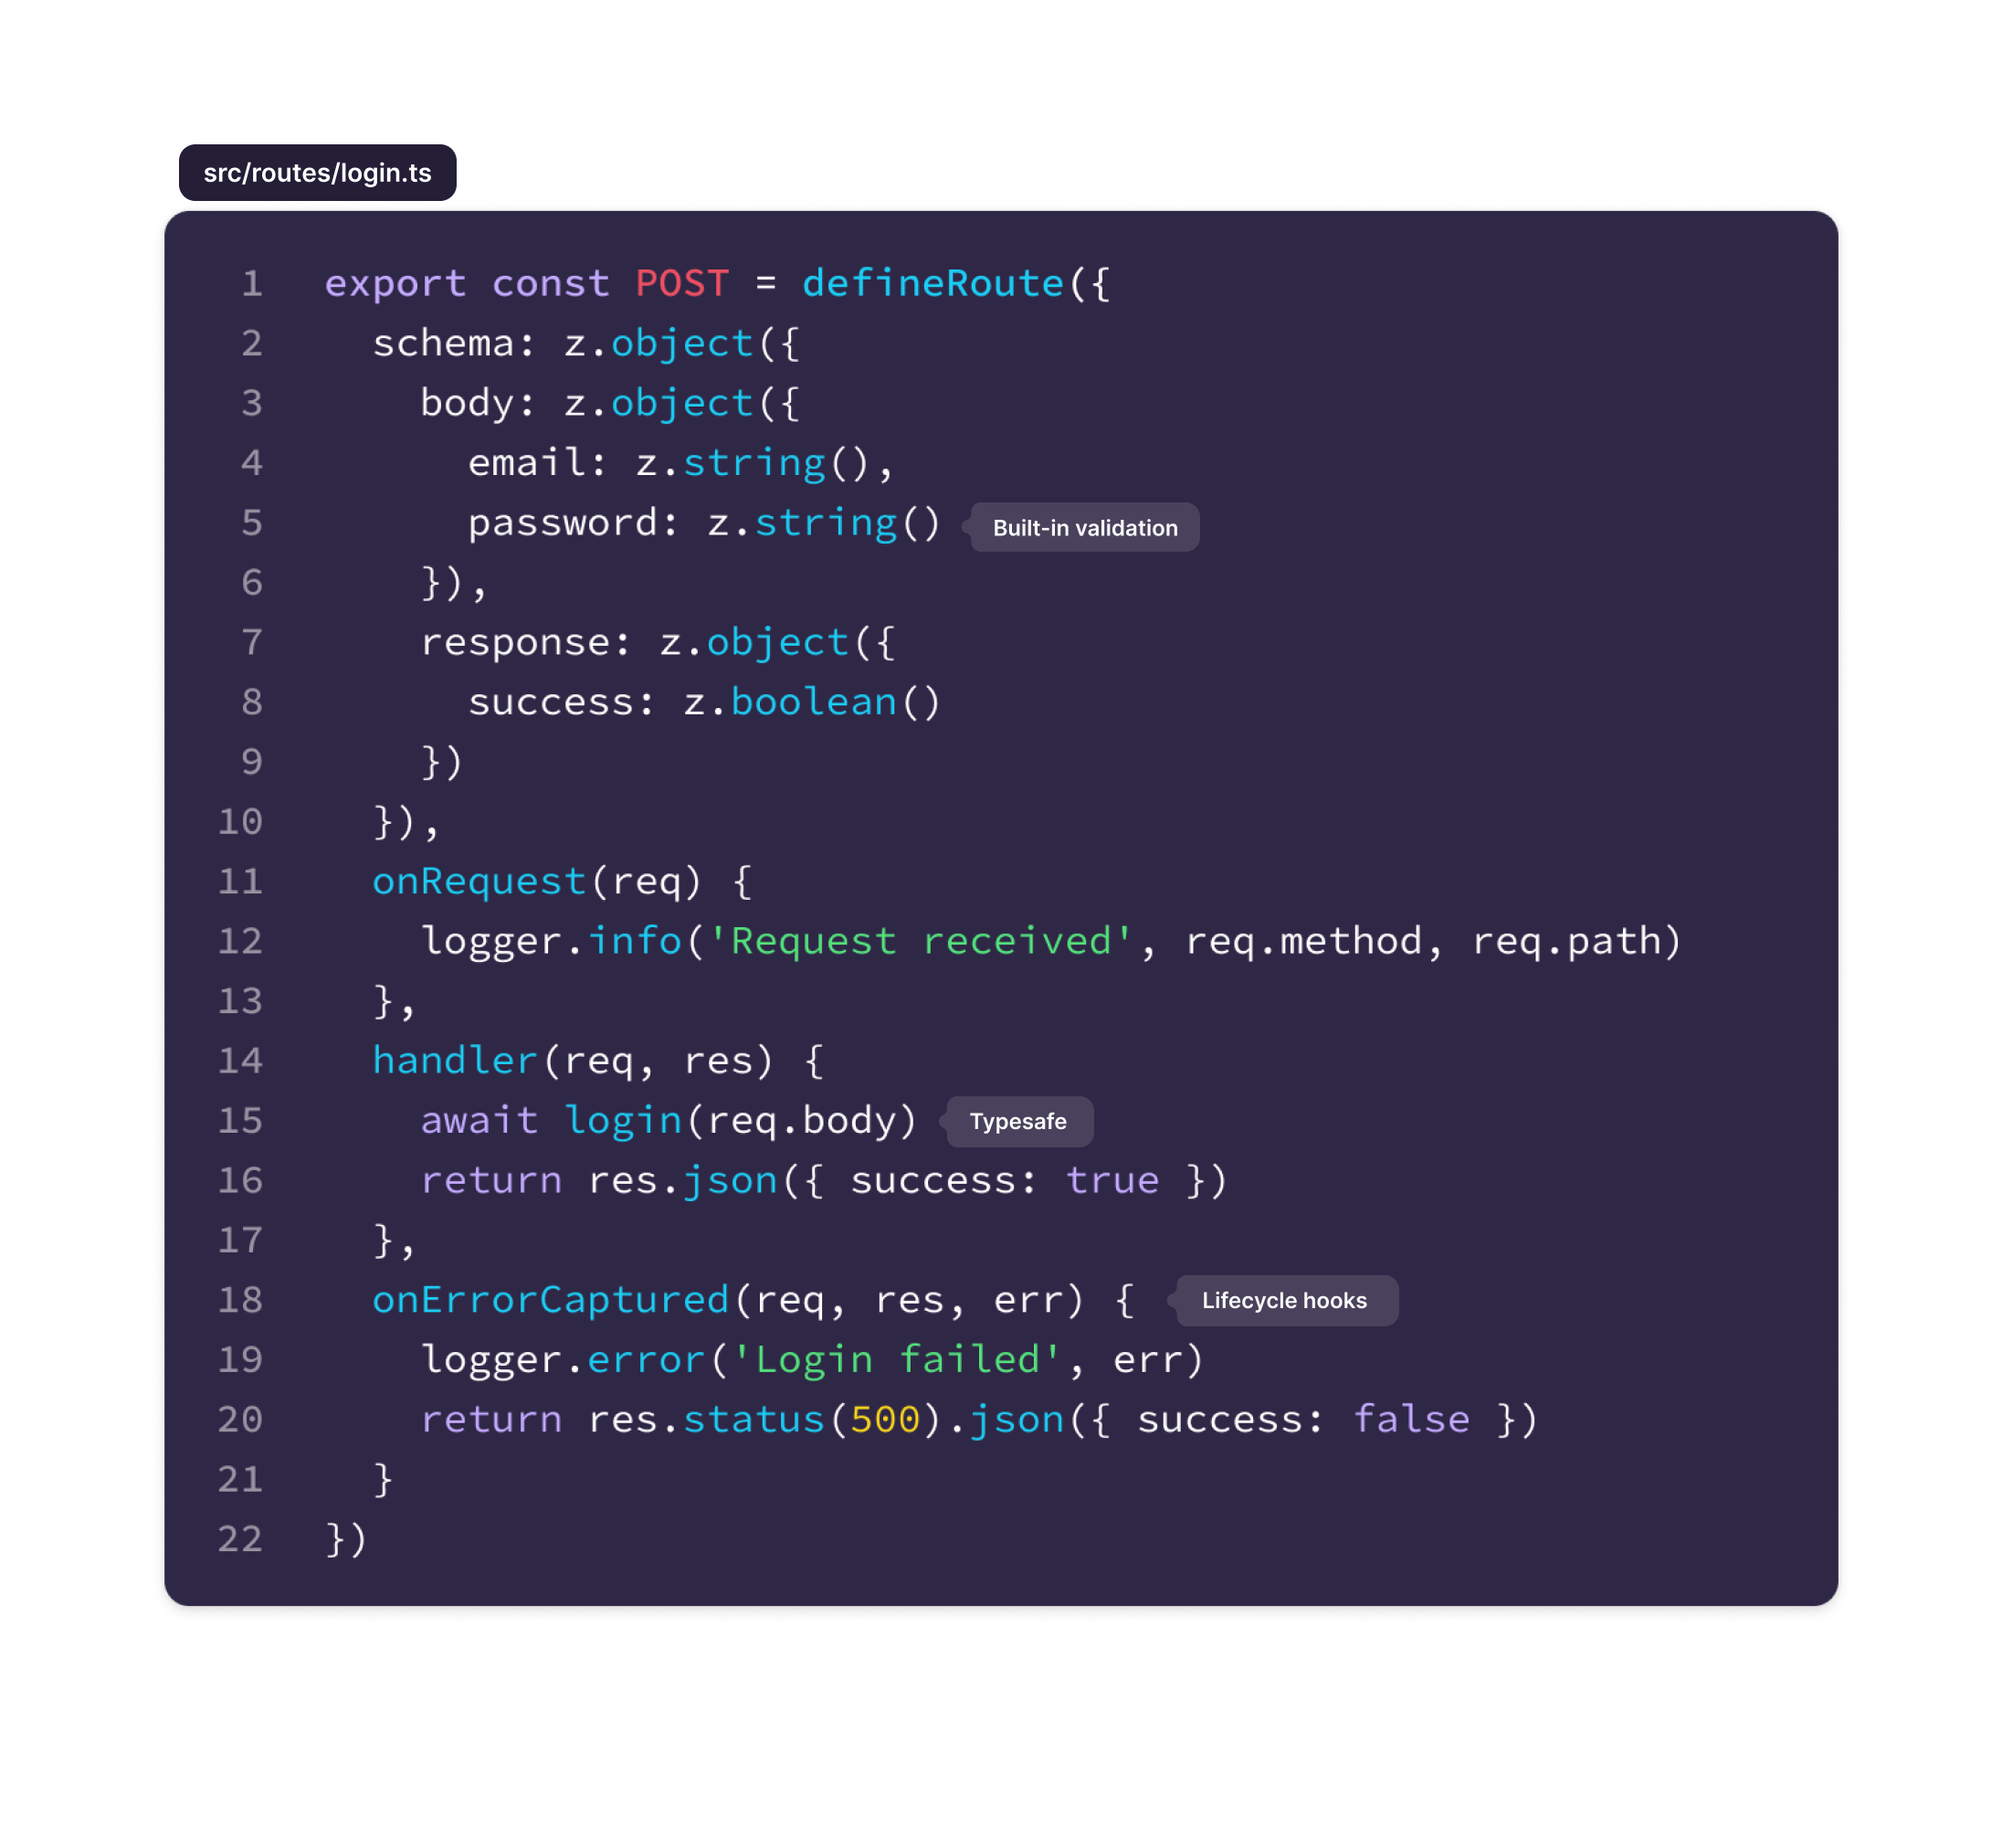
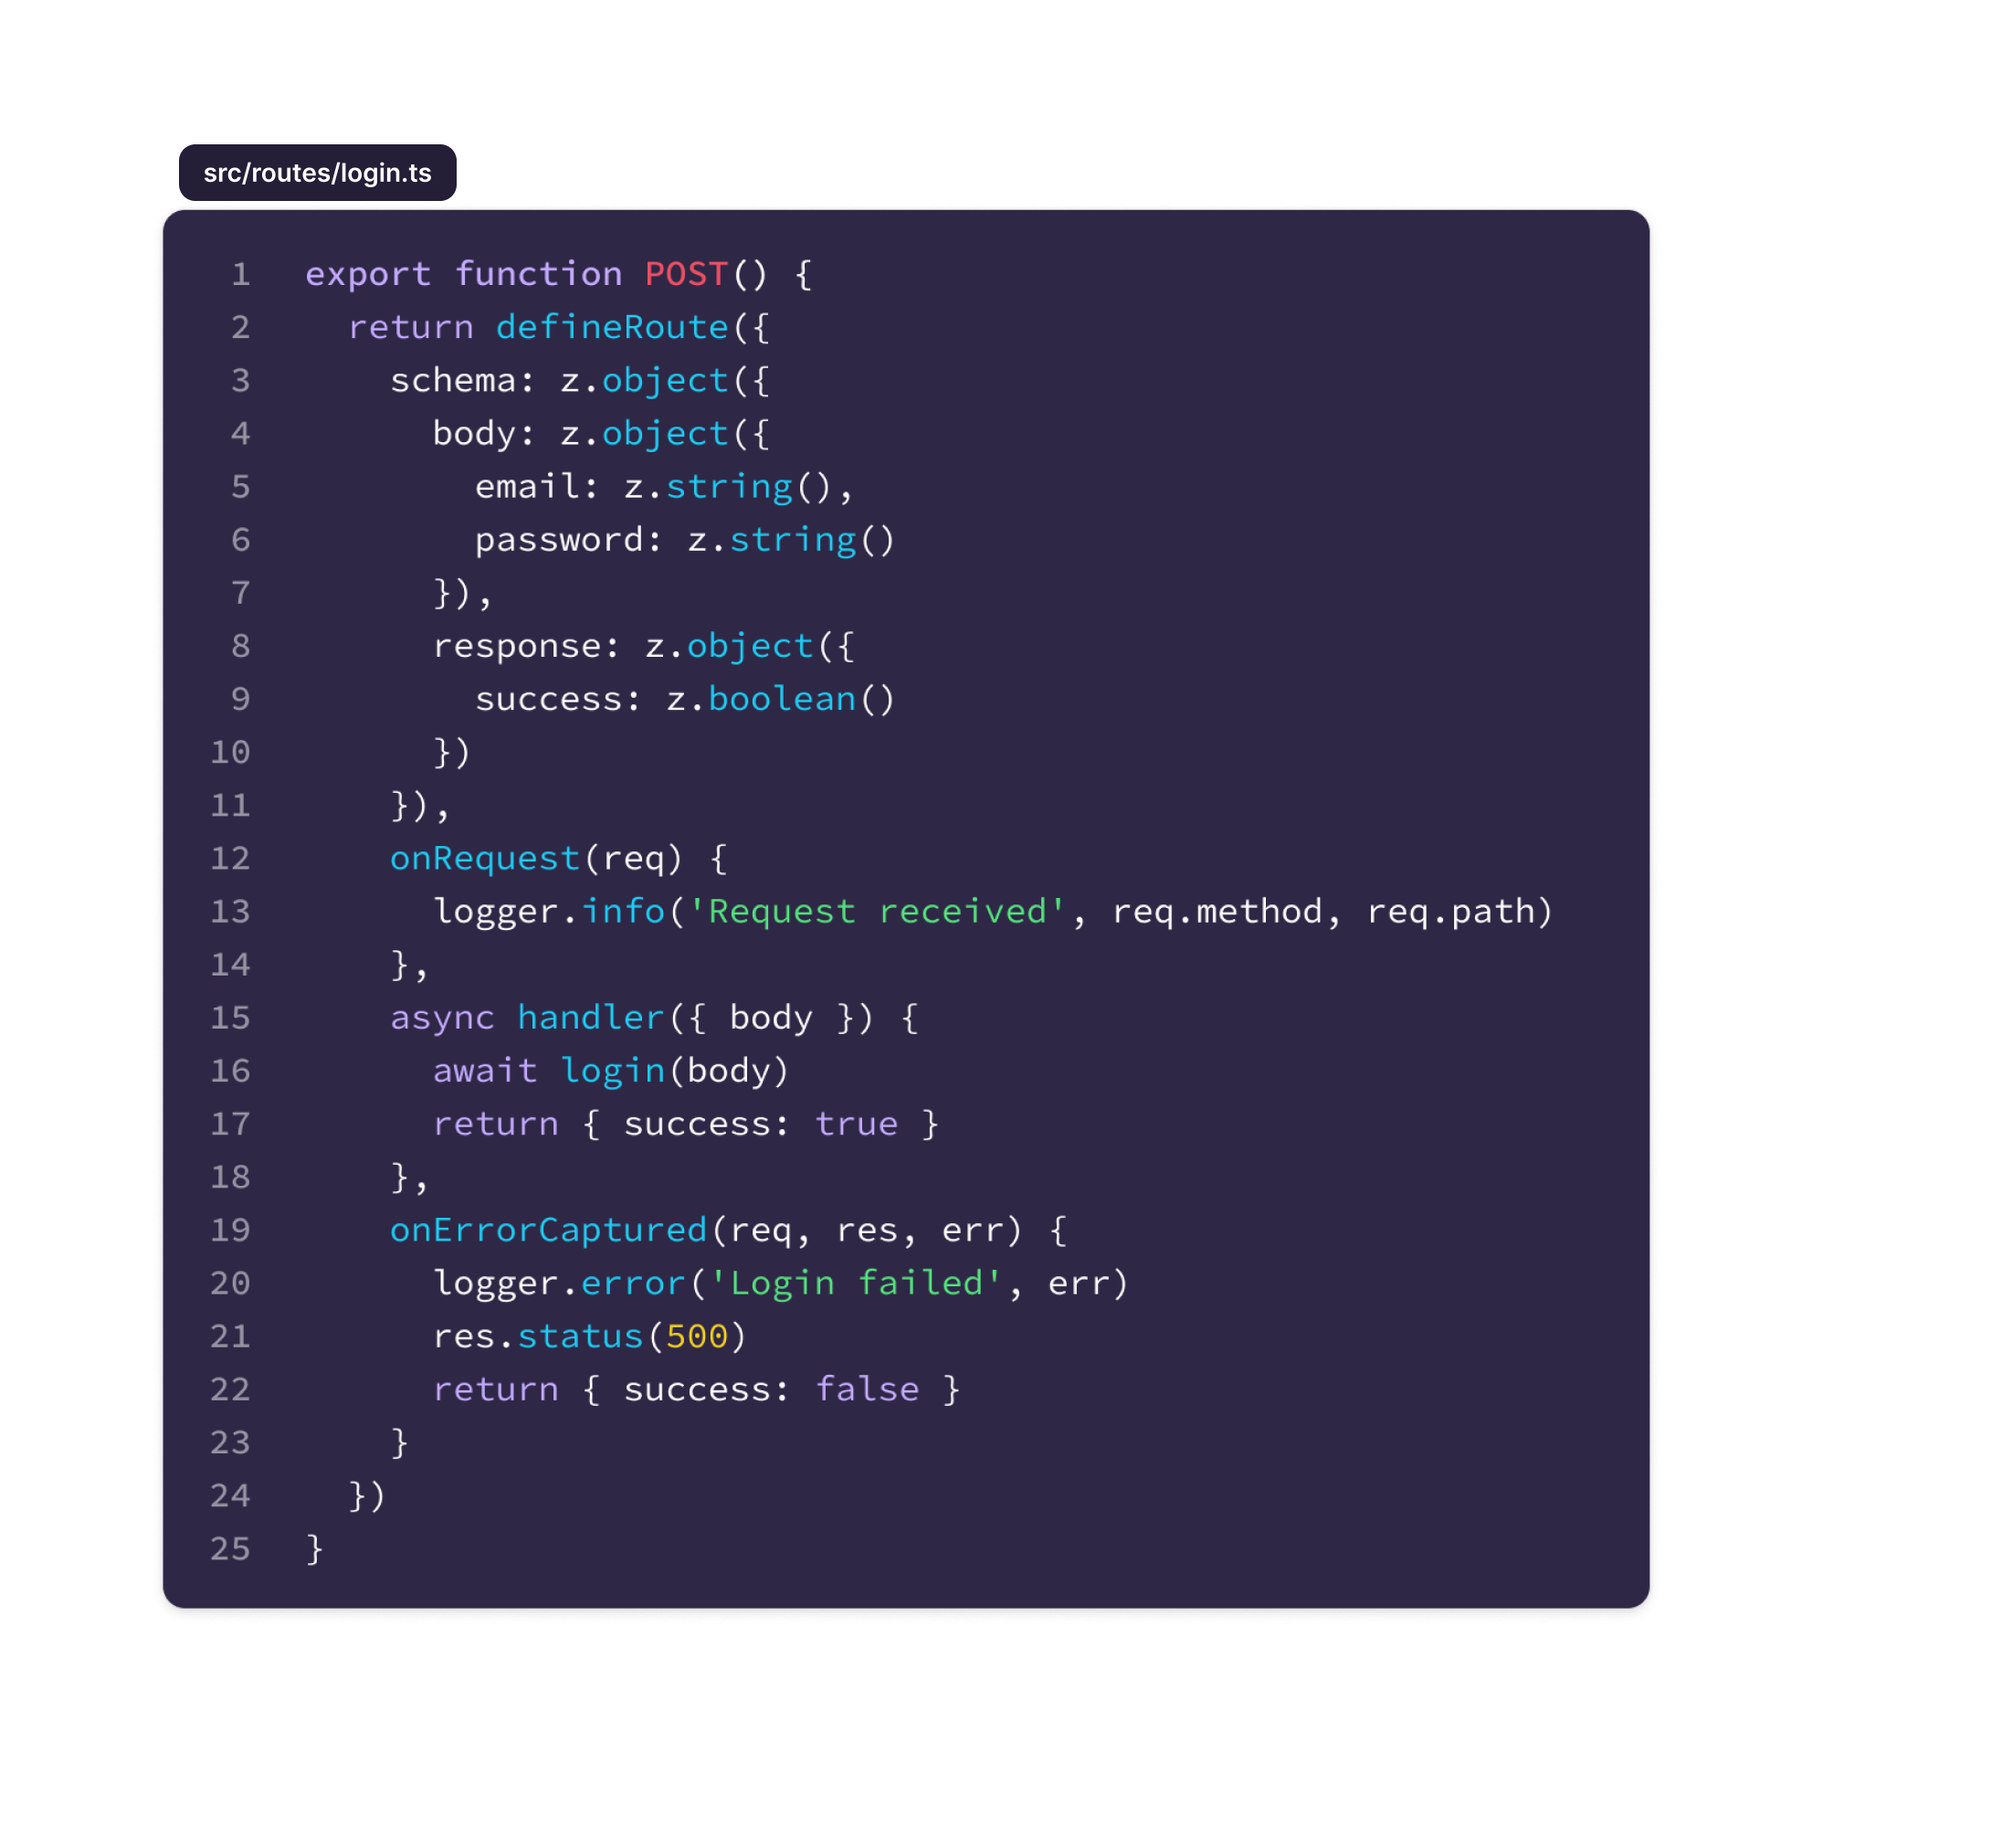
Update `defineRoute` spec

diff --git a/src/pages/docs/en/quickstart.md b/src/pages/docs/en/quickstart.md
@@ -11,7 +11,7 @@ We recommend using `create-zephyr-app` to start a new Zephyr app because it does
 **npm**
 
 ```bash
-npm create zephyr-app@latest <app-name>
+npm create zephyr-app <app-name>
 ```
 
 **yarn**
@@ -60,18 +60,20 @@ Any file contained in the `src/routes` directory is mapped to `/*` and will be c
 
 By default, we have `src/routes/index.ts`, which maps to `/`
 
-You may export **HTTP verbs** , i.e. `GET`, `POST`, `PUT`, `DELETE`, `PATCH` as functions from each file. They are created with the [`defineRoute()`](/docs/core/define-route) function.
+You may export **HTTP verbs** , i.e. `GET`, `POST`, `PUT`, `DELETE`, `PATCH` functions from each file. They should return the route specification declared with [`defineRoute()`](/docs/core/define-route) function.
 
-The following API route returns a **JSON** response with **200** status code
+The following API route returns a **JSON** response with default **200** status code
 
 ```ts title="src/routes/index.ts"
 import { defineRoute } from '@zephyr-js/core';
 
-export const GET = defineRoute({
-  handler(req, res) {
-    return res.status(200).json({ foo: 'bar' });
-  },
-});
+export function GET() {
+  return defineRoute({
+    handler() {
+      return { foo: 'bar' };
+    },
+  });
+}
 ```
 
 The above example represents `GET /`
@@ -87,23 +89,25 @@ The API routes that we going to create are:
 
 #### `GET /todos`
 
-Create a `src/routes/todos/index.ts` file and export a `GET` route.
+Create a `src/routes/todos/index.ts` file and export a `GET` function.
 
 ```ts title="src/routes/todos/index.ts"
 import { defineRoute } from '@zephyr-js/core';
 import { getTodos } from '@services/todo';
 
-export const GET = defineRoute({
-  handler(req, res) {
-    const todos = getTodos();
-    return res.json({ todos });
-  },
-});
+export function GET() {
+  return defineRoute({
+    handler() {
+      const todos = getTodos();
+      return { todos };
+    },
+  });
+}
 ```
 
 #### `GET /todos/[todoId]`
 
-Create a `src/routes/todos/[todoId].ts` file and export a `GET` route.
+Create a `src/routes/todos/[todoId].ts` file and export a `GET` function.
 
 We also declare a `schema` for the route to have **type checking** and **request validation**. Learn more about [route schema](/docs/core/define-route.md#declaring-schema).
 
@@ -115,26 +119,28 @@ import { z } from 'zod';
 import { TodoSchema } from '@models/todo';
 import { getTodoById } from '@services/todo';
 
-export const GET = defineRoute({
-  schema: z.object({
-    params: z.object({
-      todoId: z.string(),
+export function GET() {
+  return defineRoute({
+    schema: z.object({
+      params: z.object({
+        todoId: z.string(),
+      }),
+      response: z.object({
+        todo: TodoSchema,
+      }),
     }),
-    response: z.object({
-      todo: TodoSchema,
-    }),
-  }),
-  handler(req, res) {
-    const { todoId } = req.params;
-    const todo = getTodoById(todoId);
-    return res.json({ todo });
-  },
-});
+    handler({ params }) {
+      const { todoId } = params;
+      const todo = getTodoById(todoId);
+      return { todo };
+    },
+  });
+}
 ```
 
 #### `POST /todos`
 
-Export a `POST` route from the `src/routes/todos/index.ts` file that we created earlier.
+Export a `POST` function from the `src/routes/todos/index.ts` file that we created earlier.
 
 ```ts title="src/routes/todos/index.ts"
 import { defineRoute } from '@zephyr-js/core';
@@ -142,28 +148,32 @@ import { z } from 'zod';
 import { TodoSchema } from '@models/todo';
 import { getTodos, createTodos } from '@services/todo';
 
-export const GET = defineRoute({
-  handler(req, res) {
-    const todos = getTodos();
-    return res.json({ todos });
-  },
-});
+export function GET() {
+  return defineRoute({
+    handler() {
+      const todos = getTodos();
+      return { todos };
+    },
+  });
+}
 
-export const POST = defineRoute({
-  schema: z.object({
-    body: z.object({
-      name: z.string(),
-      status: z.enum(['todo', 'doing', 'done']),
+export function POST() {
+  return defineRoute({
+    schema: z.object({
+      body: z.object({
+        name: z.string(),
+        status: z.enum(['todo', 'doing', 'done']),
+      }),
+      response: z.object({
+        todo: TodoSchema,
+      }),
     }),
-    response: z.object({
-      todo: TodoSchema,
-    }),
-  }),
-  handler(req, res) {
-    const todo = createTodo(req.body);
-    return res.json({ todo });
-  },
-});
+    handler({ body }) {
+      const todo = createTodo(req.body);
+      return { todo };
+    },
+  });
+}
 ```
 
 Viola! We just built a set of API routes in a couple of minutes 🎉

diff --git a/src/pages/docs/en/api/core.md b/src/pages/docs/en/api/core.md
@@ -36,16 +36,18 @@ const app = await createApp({
 
 ### Basic Usage
 
-We can declare API route by calling the `defineRoute()` function.
+We can declare API route by exporting HTTP verb as function and returning the route specification declared with the `defineRoute()` function.
 
 ```ts title="src/routes/index.ts"
 import { defineRoute } from '@zephyr-js/core';
 
-export const GET = defineRoute({
-  handler(req, res) {
-    return res.json({ foo: 'bar' });
-  },
-});
+export function GET() {
+  return defineRoute({
+    handler(req, res) {
+      return res.json({ foo: 'bar' });
+    },
+  });
+}
 ```
 
 The `handler` prop is the main handler of the request which receives two arguments. `req` is an instance of `ZephyrRequest` while `res` is an instance of `ZephyrResponse`. They supports all the properties of Express [`Request`](https://expressjs.com/en/4x/api.html#req) and Express [`Response`](https://expressjs.com/en/4x/api.html#res).
@@ -80,9 +82,9 @@ export const POST = defineRoute({
       bar: z.string(),
     }),
   }),
-  handler(req, res) {
+  handler(req) {
     const { foo, bar } = req.body; // Type checked and validated
-    return res.json({ foo, bar }); // Type checked
+    return { foo, bar }; // Type checked
   },
 });
 ```
@@ -137,8 +139,8 @@ defineRoute({
   onBeforeValidate(req) {
     console.log(req);
   },
-  handler(req, res) {
-    return res.send('OK');
+  handler() {
+    return 'OK';
   },
 });
 ```
@@ -164,8 +166,8 @@ defineRoute({
   onRequest(req) {
     console.log(req);
   },
-  handler(req, res) {
-    return res.send('OK');
+  handler() {
+    return 'OK';
   },
 });
 ```
@@ -191,8 +193,8 @@ defineRoute({
   onResponse(req) {
     console.log(req);
   },
-  handler(req, res) {
-    return res.send('OK');
+  handler() {
+    return 'OK';
   },
 });
 ```
@@ -222,8 +224,8 @@ defineRoute({
   onErrorCaptured(req, res, err) {
     console.log(err);
   },
-  handler(req, res) {
-    return res.send('OK');
+  handler() {
+    return 'OK';
   },
 });
 ```
